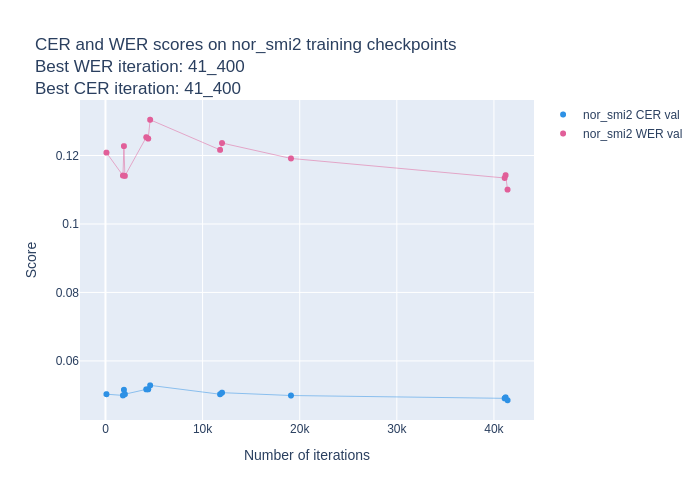
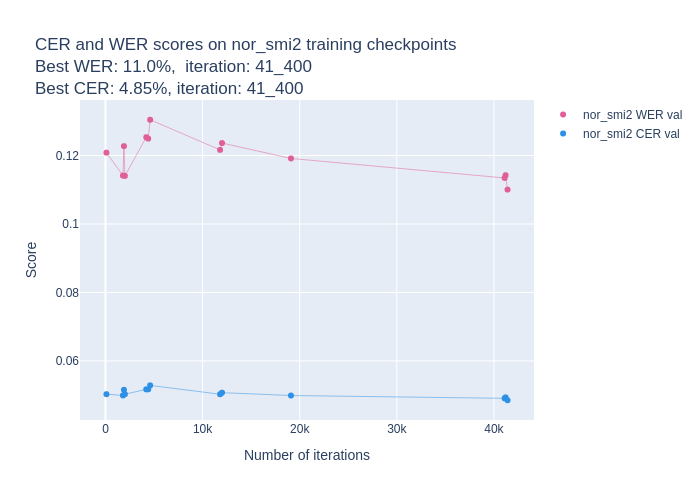
Legg beste scores inn i plott og bugfix modellnavn/stem

Changed region(s): [[0.15, 0.12, 0.45, 0.21], [0.9, 0.21, 0.99, 0.3], [0.78, 0.21, 0.81, 0.24]]

diff --git a/src/samisk_ocr/tesseract/plot_tesstrain_checkpoints.py b/src/samisk_ocr/tesseract/plot_tesstrain_checkpoints.py
@@ -25,6 +25,13 @@ def get_best_iteration(df: pd.DataFrame, score: str, split: str) -> int:
     return df[df.score == score][df.split == split].sort_values("value").head(1).iteration.item()
 
 
+def get_best_score(df: pd.DataFrame, score: str, split: str) -> float:
+    """Assumes df is already filtered on model name/stem"""
+    return round(
+        df[df.score == score][df.split == split].sort_values("value").head(1).value.item() * 100, 2
+    )
+
+
 def get_fig(model_name: str, df: pd.DataFrame, color_map: dict[str, str]) -> go.Figure:
     df = df[df.model_name == model_name]
 
@@ -59,12 +66,14 @@ def get_fig(model_name: str, df: pd.DataFrame, color_map: dict[str, str]) -> go.
 
     best_cer_iteration = get_best_iteration(df=df, score="CER", split="val")
     best_cer_iteration = "{:_}".format(best_cer_iteration)
+    best_cer = get_best_score(df=df, score="CER", split="val")
 
     best_wer_iteration = get_best_iteration(df=df, score="WER", split="val")
     best_wer_iteration = "{:_}".format(best_wer_iteration)
+    best_wer = get_best_score(df=df, score="WER", split="val")
 
     fig.update_layout(
-        title=f"CER and WER scores on {model_name} training checkpoints <br>Best WER iteration: {best_wer_iteration}<br>Best CER iteration: {best_cer_iteration}",
+        title=f"CER and WER scores on {model_name} training checkpoints <br>Best WER: {best_wer}%,  iteration: {best_wer_iteration}<br>Best CER: {best_cer}%, iteration: {best_cer_iteration}",
         xaxis_title="Number of iterations",
         yaxis_title="Score",
     )
@@ -122,6 +131,8 @@ def get_overall_fig(model_stem: str, df: pd.DataFrame, color_map: dict[str, str]
     best_cer_iteration = best_cer.iteration.item()
     best_cer_iteration = "{:_}".format(best_cer_iteration)
 
+    best_cer_score = get_best_score(df, score="CER", split="val")
+
     best_wer = (
         df[df.model_stem == model_stem][df.score == "WER"][df.split == "val"]
         .sort_values("value")
@@ -133,8 +144,10 @@ def get_overall_fig(model_stem: str, df: pd.DataFrame, color_map: dict[str, str]
     best_wer_iteration = best_wer.iteration.item()
     best_wer_iteration = "{:_}".format(best_wer_iteration)
 
+    best_wer_score = get_best_score(df, score="WER", split="val")
+
     fig.update_layout(
-        title=f"CER and WER scores on {model_stem} training checkpoints <br>Best WER iteration: training iteration: {best_wer_training_iteration}, checkpoint: {best_wer_iteration} <br>Best CER iteration: training iteration: {best_cer_training_iteration}, checkpoint: {best_cer_iteration}",
+        title=f"CER and WER scores on {model_stem} training checkpoints <br>Best WER: {best_wer_score}%, training iteration: {best_wer_training_iteration}, checkpoint: {best_wer_iteration} <br>Best CER: {best_cer_score}%, training iteration: {best_cer_training_iteration}, checkpoint: {best_cer_iteration}",
         xaxis_title="Total number of iterations",
         yaxis_title="Score",
     )
@@ -179,12 +192,12 @@ if __name__ == "__main__":
 
     # Plot and save for each training iteration
     df = df.sort_values("model_name")
-    for model_stem in df.model_name.unique():
-        fig = get_fig(model_name=model_stem, df=df, color_map=color_map)
-        model_stem = get_model_stem(model_name=model_stem)
+    for model_name in df.model_name.unique():
+        fig = get_fig(model_name=model_name, df=df, color_map=color_map)
+        model_stem = get_model_stem(model_name=model_name)
         output_dir = Path(f"tesseract_models/{model_stem}")
         output_dir.mkdir(exist_ok=True)
-        fig.write_image(output_dir / f"{model_stem}_checkpoints.png")
+        fig.write_image(output_dir / f"{model_name}_checkpoints.png")
 
     # Plot and save across training iterations
     df["model_stem"] = df.model_name.apply(get_model_stem)
